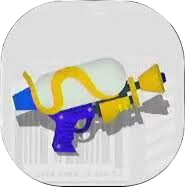
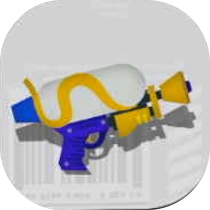
made the back / next buttons better

diff --git a/Static/style.css b/Static/style.css
@@ -4,7 +4,7 @@
     
 }
 html {
-    transform: perspective(1300px) rotateY(20deg) translateZ(310px) scale(0.5);
+    /* transform: perspective(1300px) rotateY(20deg) translateZ(310px) scale(0.5); */
     font-family: splatoon;
     color: gray;
 }
@@ -59,14 +59,13 @@ body {
     background-color: #f0f0f0;
 }
 .main {
-    border-radius: 50px;
+    border-radius: 10%;
     background-color: black;
     position: fixed;
     left: 10vw;
     top: 20vh;
     width: 40vw;
-    height: 60vh;
-    border: 1px solid black;
+    height: 40vh;
 }
 .main_grid {
     display: grid;
@@ -90,16 +89,43 @@ body {
     width: 80%;
     padding-bottom: 80%;
 }
+.main_image {
+    position: relative;
+    width: 6vw;
+    height: 6vw;
+    top: 10%;
+}
+.sub_image {
+    position: relative;
+    width: 2vw;
+    height: 2vw;
+    top: -56%;
+}
+.special_image {
+    position: relative;
+    width: 2vw;
+    height: 2vw;
+    top: -56%;
+}
 .yellow_banner {
     background-color: yellow;
     position: relative;
     width: 100%;
     height: 30%;
-    top: 70%;
+    top: -26%;
 }
-.main_image {
-    position: relative;
-    width: 6vw;
-    height: 6vw;
-    top: -15px;
+.back_button {
+    position: fixed;
+    top: 40vh;
+    left: 8%;
+    padding-left: 8px;
+    background-color: black;
+    clip-path: polygon(8px 100%,0 0,100% 0,100% 100%);
+}
+.next_button {
+    position: fixed;
+    top: 40vh;
+    right: 48vw;
+    padding-right: 8px;
+    background-color: black;
 }

diff --git a/templates/main.html b/templates/main.html
@@ -7,14 +7,16 @@
         {% for mains in weapon %}
         <div class="main_weapon">
             <!-- <div class="main_weapon_background"></div> -->
-            <div class="yellow_banner"></div>
             <img src="/static/main_weapon/splattershot.png" alt="Splattershot" class="main_image">
-            <!-- <img src="/static/sub_weapon/suction bomb.png" alt="Suction Bomb" class="sub_image">
-            <img src="/static/special_weapon/trizooka.png" alt="Trizooka" class="special_image"> -->
+            <div class="yellow_banner"></div>
+            <img src="/static/sub_weapon/suction bomb.png" alt="Suction Bomb" class="sub_image">
+            <img src="/static/special_weapon/trizooka.png" alt="Trizooka" class="special_image">
             <!-- <p>{{mains[1]}}</p> -->
         </div>
         {% endfor %}
     </div>
+    <div class="back_button"><a href="/main/{{page-1}}">back</a></div>
+    <div class="next_button"><a href="/main/{{page+1}}">next</a></div>
     <div>
         <p><a href="/main/{{page-1}}">back</a></p>
         <p><a href="/main/{{page+1}}">next</a></p>
